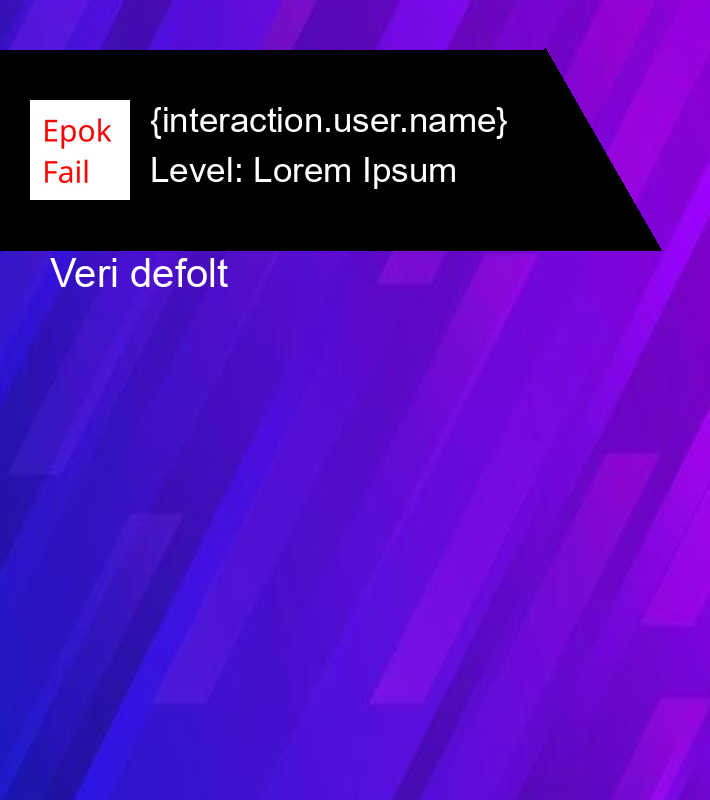
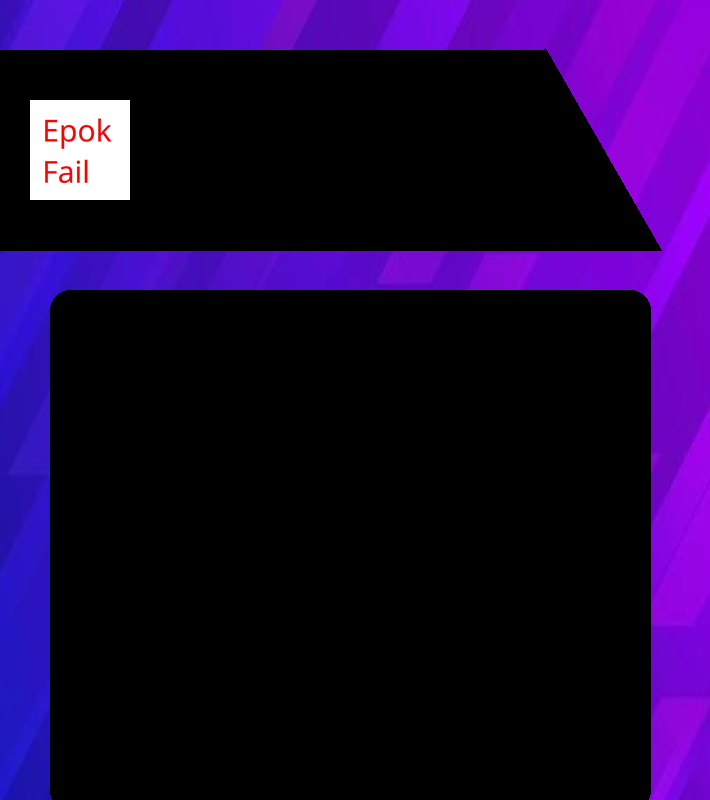
trying to make transparency effect

diff --git a/commands/fun/levelsystem.py b/commands/fun/levelsystem.py
@@ -26,42 +26,67 @@ def eval_fstring(s, context):
         logging.error(f"Failed to evaluate f-string {s}: {e}")
         return s
 
-def profile_gen(interaction:discord.Interaction,theme:str="Default"):  # noqa: C901, E501
+def parse_color(color, opacity=1.0):  # noqa: C901
+    """Converts color formats to RGBA and applies opacity if necessary."""
+    if isinstance(color, str):  # Hex color
+        color = color.lstrip('#')  # Remove the hash if present
+        if len(color) == 6:  # #RRGGBB  # noqa: PLR2004
+            r, g, b = int(color[0:2], 16), int(color[2:4], 16), int(color[4:6], 16)
+            a = 255  # Full opacity
+        elif len(color) == 8:  # #RRGGBBAA  # noqa: PLR2004
+            r, g, b = int(color[0:2], 16), int(color[2:4], 16), int(color[4:6], 16)
+            a = int(color[6:8], 16)  # Alpha from hex
+        else:
+            raise ValueError("Invalid hex color format")
+    elif isinstance(color, list) and len(color) == 3:  # RGB  # noqa: PLR2004
+        r, g, b = color
+        a = 255  # Full opacity
+    elif isinstance(color, list) and len(color) == 4:  # RGBA  # noqa: PLR2004
+        r, g, b, a = color
+    else:
+        raise ValueError("Unsupported color format")
+
+    # Apply opacity (only for hex and RGB, not RGBA)
+    if opacity < 1.0:
+        a = int(a * opacity)
+
+    return (r, g, b, a)
+
+
+def profile_gen(interaction: discord.Interaction, theme: str = "Default"):  # noqa: C901, E501
     logging.debug(themes.config)
 
     # Vars
-    bg = themes.get(theme,"Data","bg")
+    bg = themes.get(theme, "Data", "bg")
     fixed_size = (710, 800)  # Fixed size for the profile image
-    objects = themes.get(theme,"Text", "objects")
-    font = themes.get(theme,"Text","font")
+    objects = themes.get(theme, "Text", "objects")
+    font = themes.get(theme, "Text", "font")
 
     context = {
         'interaction': interaction,
     }
     # Load and resize the background image
     if bg.startswith("#"):
-        background = Image.new('RGB', fixed_size, color=bg)
+        background = Image.new('RGBA', fixed_size, color=bg)
     else:
-        background = Image.open(bg)
+        background = Image.open(bg).convert("RGBA")
         background = background.resize(fixed_size, Image.ANTIALIAS)
 
-    draw = ImageDraw.Draw(background)
+    draw = ImageDraw.Draw(background, "RGBA")
     logging.debug(objects)
+
     for obj in objects:
         logging.debug(obj)
 
-        # Directly check for "text" key
         if obj.get("text"):
             text = obj["text"]
-            # Use defaults where fields might be missing
             position = tuple(text.get('position', [0, 0]))
-            content = text.get('content', '')
-            size = text.get('size', 20)  # Default font size 20 if missing
-            color = tuple(text.get('color', [255, 255, 255]))  # Default color white
+            content = text.get('content', 'Lorem Ipsum')
+            size = text.get('size', 20)
+            color = parse_color(text.get('color', [255, 255, 255]), opacity=text.get('opacity', 1.0))  # noqa: E501
 
             draw.text(position, content, font=ImageFont.truetype(font, size), fill=color)  # noqa: E501
 
-        # Directly check for "img" key
         elif obj.get("img"):
             img = obj["img"]
             img_path = eval_fstring(img.get('image'), context=context)
@@ -71,7 +96,6 @@ def profile_gen(interaction:discord.Interaction,theme:str="Default"):  # noqa: C
                 continue
 
             try:
-                # Attempt to load the image (URL or local file)
                 if img_path.startswith("http://") or img_path.startswith("https://"):
                     response = requests.get(img_path, timeout=60)
                     image = Image.open(BytesIO(response.content))
@@ -81,75 +105,60 @@ def profile_gen(interaction:discord.Interaction,theme:str="Default"):  # noqa: C
             except Exception as e:
                 logging.error(f"Failed to process image {img_path}: {e}")
                 logging.warning("Replacing image with default image.")
-
-                # Replace the img object with a default one
-
                 try:
-                    image = Image.open(DEFAULT_IMAGE_PATH)  # Load default image
+                    image = Image.open(DEFAULT_IMAGE_PATH)
                 except Exception as default_error:
                     logging.error(f"Failed to load default image: {default_error}")
-                    continue  # Skip if even the default fails
+                    continue
 
-            # Resize the image if width and height are provided
             width = img.get('width')
             height = img.get('height')
             if width and height:
                 image = image.resize((width, height), Image.ANTIALIAS)
 
-            # Get the position to paste the image
             position = tuple(img.get('position', [0, 0]))
-
-            # Paste the image onto the background
             background.paste(image, position)
             logging.debug(f"Pasted image {img_path} at {position}")
 
         elif obj.get("rect"):
             rect = obj["rect"]
-
-            # Center of the rectangle
             center = tuple(rect.get('position', [100, 100]))
-
-            # Width and height of the rectangle
-            width = rect.get('size', [100, 50])[0]  # Default width
-            height = rect.get('size', [100, 50])[1]  # Default height
-
+            width = rect.get('size', [100, 50])[0]  # noqa: PLR2004
+            height = rect.get('size', [100, 50])[1]  # noqa: PLR2004
             top_left = (center[0] - width // 2, center[1] - height // 2)
             bottom_right = (center[0] + width // 2, center[1] + height // 2)
-
-            # Color of the rectangle
-            color = tuple(rect.get('color', [255, 255, 255]))  # Default white
-
-            # Corner rounding radius (optional, default to 0 for no rounding)
+            color = parse_color(rect.get('color', [255, 255, 255]), opacity=rect.get('opacity', 1.0))  # noqa: E501
             corner_radius = rect.get('corner_radius', 0)
 
-            # Draw the rounded rectangle
-            draw.rounded_rectangle([top_left, bottom_right], radius=corner_radius, fill=color)  # noqa: E501
-            logging.debug(f"Drew rectangle at {top_left} with size {bottom_right} and color {color}")  # noqa: E501
+            # Create a new image for rectangle
+            rect_layer = Image.new('RGBA', background.size, (255, 255, 255, 0))
+            rect_draw = ImageDraw.Draw(rect_layer)
+            rect_draw.rounded_rectangle([top_left, bottom_right], radius=corner_radius, fill=color)  # noqa: E501
+            background = Image.alpha_composite(background, rect_layer)
 
-        # Handling "circle" objects
         elif obj.get("circle"):
             circle = obj["circle"]
             center = tuple(circle.get('position', [50, 50]))  # Center of the circle
             radius = circle.get('radius', 50)  # Radius of the circle
-            color = tuple(circle.get('color', [255, 255, 255]))  # Default white
+            color = parse_color(circle.get('color', [255, 255, 255]), opacity=circle.get('opacity', 1.0))  # noqa: E501
             bounding_box = [  # Define the bounding box for the circle
                 (center[0] - radius, center[1] - radius),
                 (center[0] + radius, center[1] + radius),
             ]
-            draw.ellipse(bounding_box, fill=color)
-            logging.debug(f"Drew circle at {center} with radius {radius} and color {color}")  # noqa: E501
 
-        # Handling "triangle" objects
+            # Create a new image for circle
+            circle_layer = Image.new('RGBA', background.size, (255, 255, 255, 0))
+            circle_draw = ImageDraw.Draw(circle_layer)
+            circle_draw.ellipse(bounding_box, fill=color)
+            background = Image.alpha_composite(background, circle_layer)
+
         elif obj.get("triangle"):
             triangle = obj["triangle"]
             center = tuple(triangle.get('position', [100, 100]))
-            radius = triangle.get('radius', 50)  # Radius of the triangle
-            color = tuple(triangle.get('color', [255, 255, 255]))  # Default white
+            radius = triangle.get('radius', 50)  # noqa: PLR2004
+            color = parse_color(triangle.get('color', [255, 255, 255]), opacity=triangle.get('opacity', 1.0))  # noqa: E501
+            rotation = triangle.get('rotation', 0)
 
-            # Optional rotation (in degrees)
-            rotation = triangle.get('rotation', 0)  # Default to 0 degrees
-
-            # Calculate the three vertices of the equilateral triangle
             points = []
             for i in range(3):
                 angle_deg = 120 * i + rotation
@@ -158,9 +167,11 @@ def profile_gen(interaction:discord.Interaction,theme:str="Default"):  # noqa: C
                 y = center[1] + radius * math.sin(angle_rad)
                 points.append((x, y))
 
-            # Draw the triangle
-            draw.polygon(points, fill=color)
-            logging.debug(f"Drew triangle at {center} with radius {radius}, color {color}, and rotation {rotation}")  # noqa: E501
+            # Create a new image for triangle
+            triangle_layer = Image.new('RGBA', background.size, (255, 255, 255, 0))
+            triangle_draw = ImageDraw.Draw(triangle_layer)
+            triangle_draw.polygon(points, fill=color)
+            background = Image.alpha_composite(background, triangle_layer)
 
         else:
             logging.warning(f"Unsupported or invalid object {obj} in theme {theme}, ignoring...")  # noqa: E501
